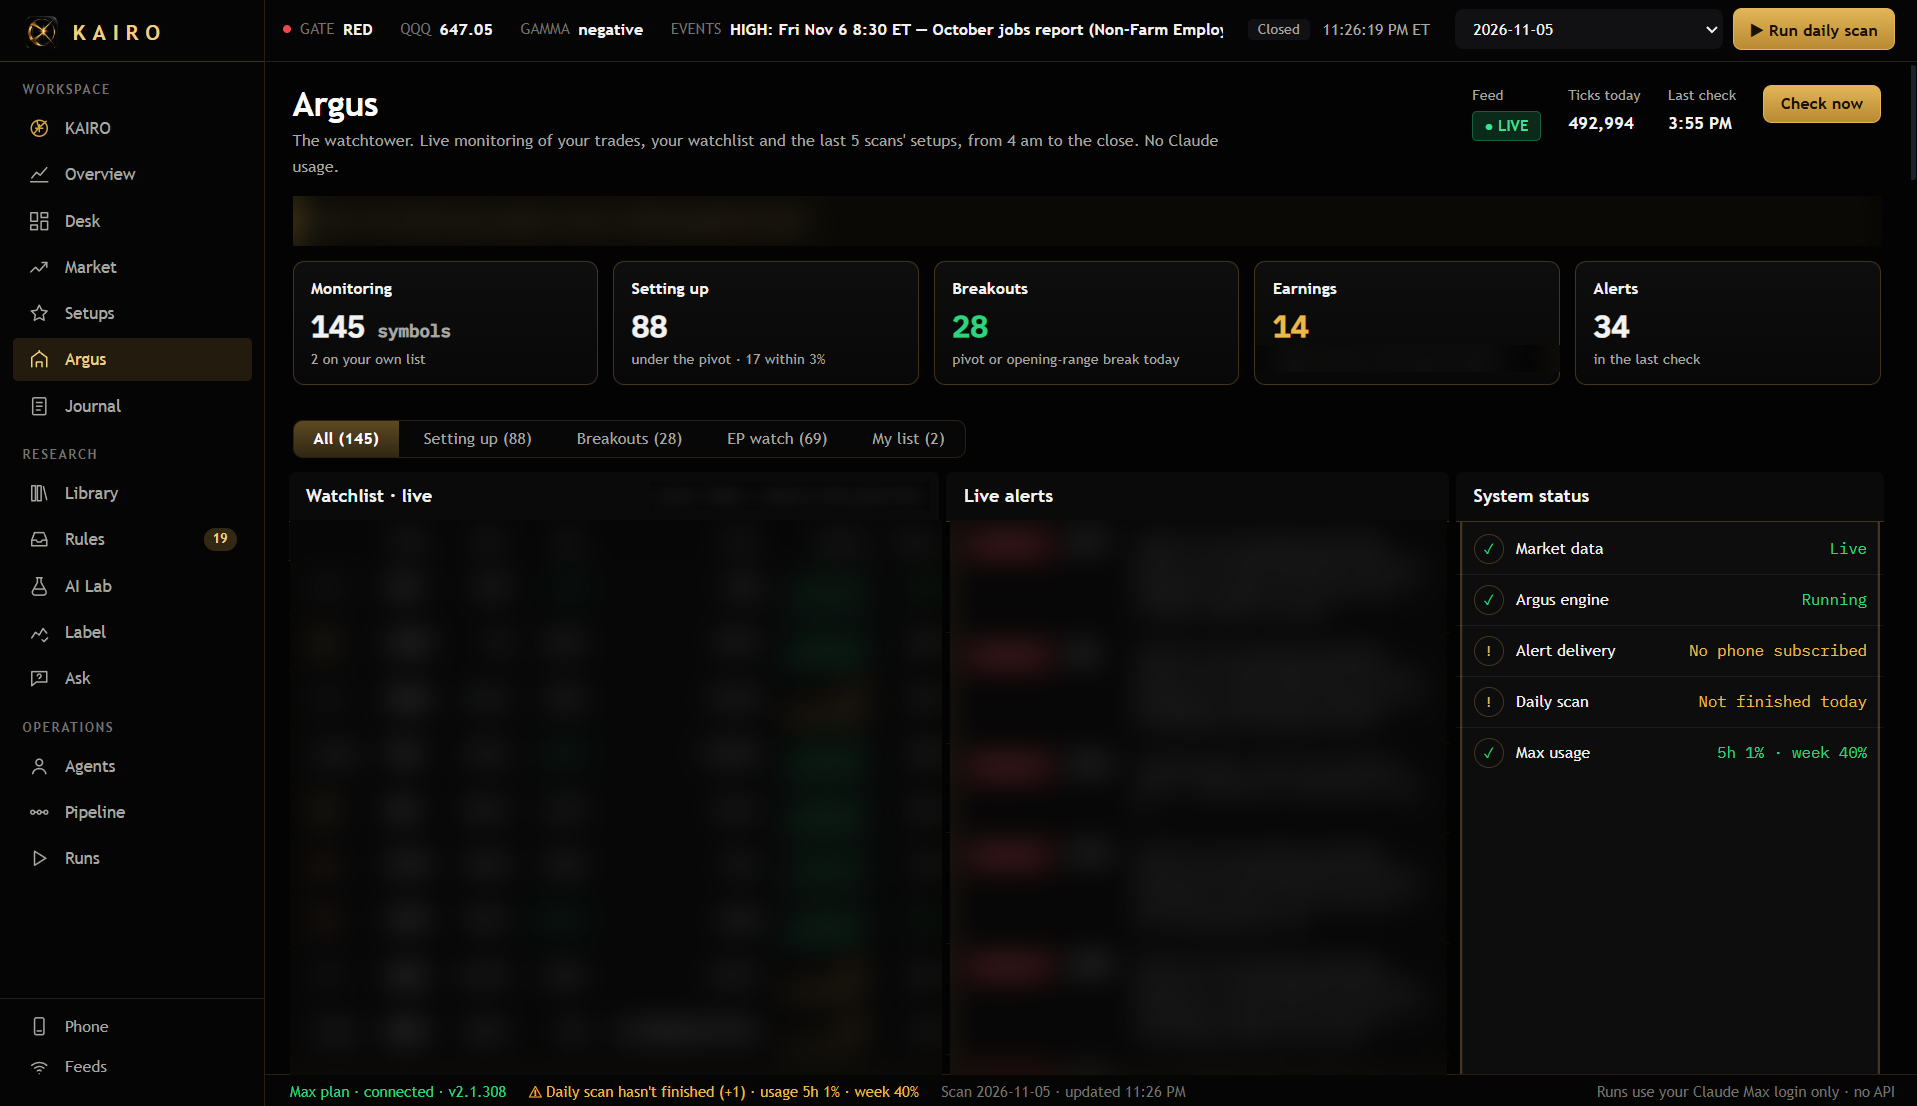
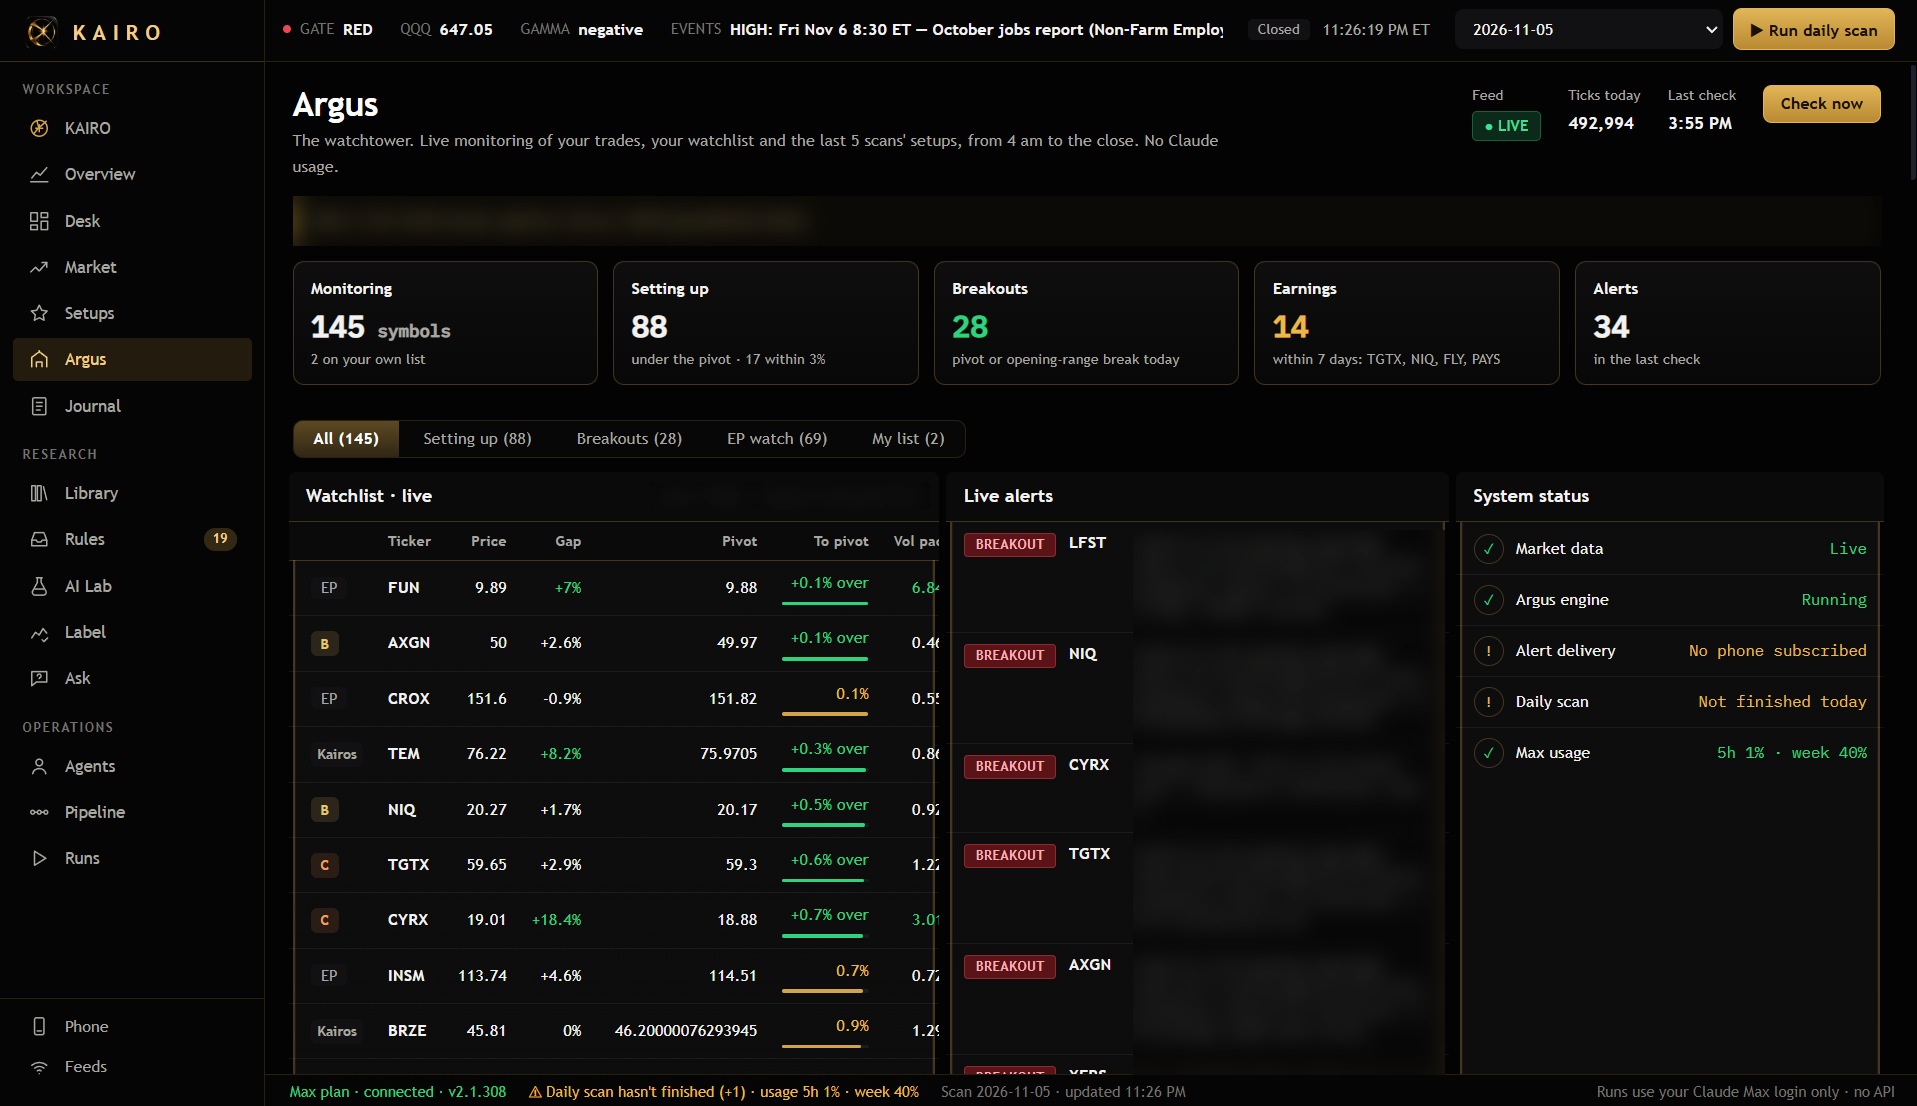
Screenshots: tickers and levels visible; only method names, pattern IDs and alert rules blurred; Setups and Desk added

diff --git a/docs/screenshots/README.md b/docs/screenshots/README.md
@@ -1,8 +1,9 @@
 # Screenshots
 
-The KAIRO desktop app. Tickers, setups, levels, alert details and anything describing the trading method are blurred.
+The KAIRO desktop app (data from November 2026). Pattern IDs, alert rules and method details are blurred.
 
 | | |
 |---|---|
-| ![KAIRO home](kairo-page.png) **Home:** the AI chat with KAIRO | ![Overview](overview.png) **Overview:** market state, activity and system health |
-| ![Market](market.png) **Market:** indices, themes and commentary | ![Argus](argus.png) **Argus:** live monitoring and system status |
+| ![KAIRO home](kairo-page.png) **Home:** chat with KAIRO | ![Overview](overview.png) **Overview:** market state, today's setups, alerts, system health |
+| ![Setups](setups.png) **Setups:** graded setups with levels and a chart panel | ![Desk](desk.png) **Desk:** the working view: setups, chart, live monitor, market |
+| ![Argus](argus.png) **Argus:** live monitoring and system status | ![Market](market.png) **Market:** indices, themes and commentary |
